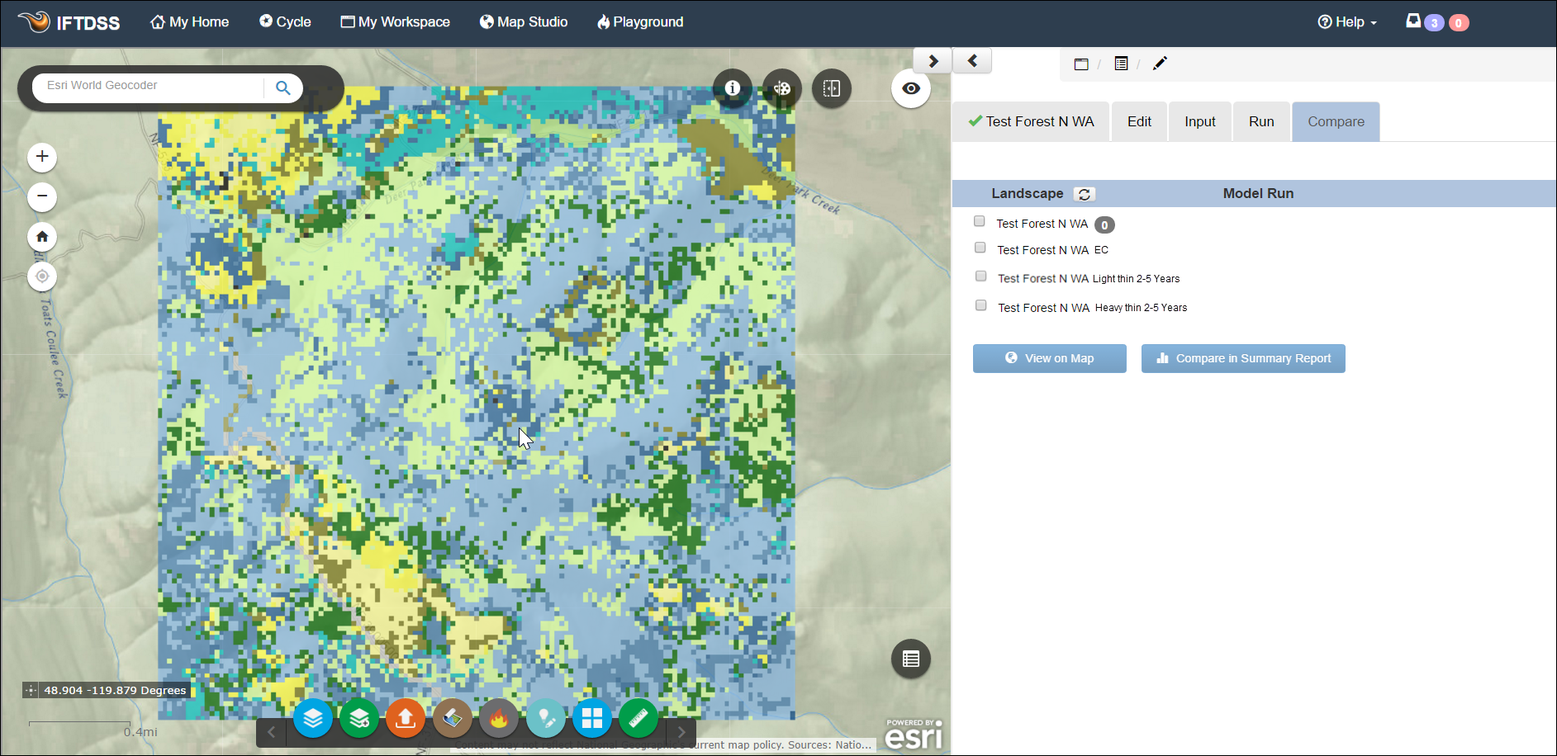
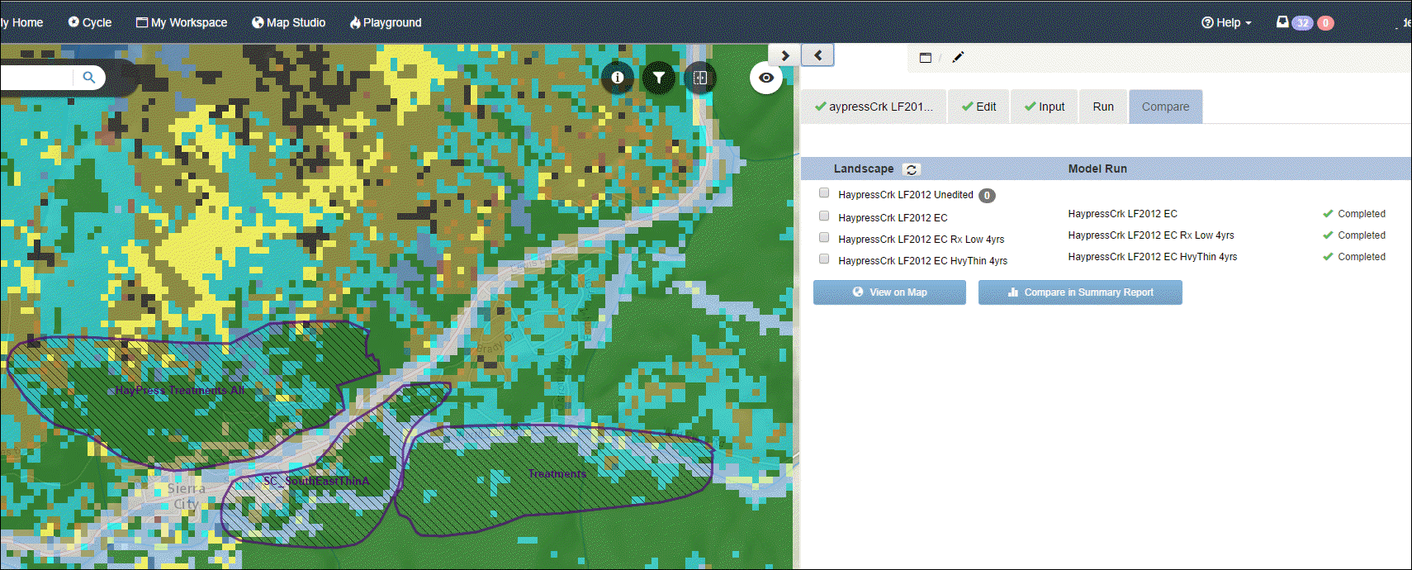
adds content

diff --git a/Content/PCStrategicPlanning/TrtmtAltsCompareLndscp.htm b/Content/PCStrategicPlanning/TrtmtAltsCompareLndscp.htm
@@ -1,36 +1,29 @@
 <?xml version="1.0" encoding="utf-8"?>
-<html xmlns:MadCap="http://www.madcapsoftware.com/Schemas/MadCap.xsd" MadCap:lastBlockDepth="7" MadCap:lastHeight="7095" MadCap:lastWidth="1252">
+<html xmlns:MadCap="http://www.madcapsoftware.com/Schemas/MadCap.xsd" MadCap:lastBlockDepth="9" MadCap:lastHeight="6422" MadCap:lastWidth="2172">
     <head>
     </head>
     <body>
         <h1>
             <MadCap:keyword term="Comparing" />
             <MadCap:keyword term="Comparing Landscapes" />Comparing Landscapes to <MadCap:keyword term="Develop Treatment Alternative" />Develop <MadCap:keyword term="Treatment Alternatives" />Treatment Alternatives</h1>
-        <p>Develop alternatives to determine how different types of fuels treatments and their spatial arrangement on the landscape affect landscape characteristics and resultant fire behavior. You may generate maps and reports to compare landscapes and fire behavior model outputs, and use outcomes to determine the best fuels management strategy to meet your project objectives. In this task you will:</p>
-        <ol>
-            <li>Select or create an un-edited (originating) landscape</li>
-            <li>Edit landscape characteristics to create alternative(s)</li>
-            <li>Enter fire behavior model inputs</li>
-            <li>Run fire behavior models on alternative(s)</li>
-            <li>Compare landscape characteristic alternatives and resultant fire behavior outputs on maps and in reports</li>
-        </ol>
+        <MadCap:snippetBlock src="../Resources/Snippets/CompareTreatmentAlts/Introduction.flsnp" />
         <div class="notificationNote">
             <p>All edited landscapes, resultant model run outputs, and comparison reports created in this workflow will be filed in your workspace in the same location as landscape you choose in the following step as your originating landscape.</p>
         </div>
+        <p>To view both your landscape, and editing rules at the same time, use the <span class="UIcomponent">View Split Map</span> button <img src="../Resources/Images/treatment_compare/button_showsplitmap.png" style="width: 41px;height: 24px;" alt="view split map button" />at the top left of the page. </p>
+        <p>
+            <img src="../Resources/Images/treatment_compare/ViewSplitMapLocation.png" alt="the view split map button is located in the top left of the page" style="width: 799px;height: 252px;" />
+        </p>
         <div class="notificationTip">
-            <p>To view both your landscape, and editing rules at the same time, use the <span class="UIcomponent">View Split Map</span> button <img src="../Resources/Images/treatment_compare/button_showsplitmap.png" style="width: 41px;height: 24px;" alt="view split map button" />at the top of the page. </p>
+            <p>Throughout these steps we refer to different landscape (Originating, Existing, etc.). If you need a quick reference to remember what each of these refers to, see the <a href="../Concepts/AboutLandscapesinIFTDSS.htm">LAbout Landscapes in <MadCap:variable name="General.ProductName" /> Topic</a>.</p>
         </div>
         <MadCap:dropDown>
             <MadCap:dropDownHead>
                 <MadCap:dropDownHotspot>Choose an Originating Landscape</MadCap:dropDownHotspot>
             </MadCap:dropDownHead>
             <MadCap:dropDownBody>
-                <p>
-                    <img src="../Resources/Images/treatment_compare/select_landscape.png" style="width: 541px;height: 265px;float: right;padding-left: 5px;padding-right: 5px;" alt="treatment comparison interface with a dropdown list of landscapes to select, or button to create a new landscape" />Use this tab to create or select a starting unedited landscape. The landscape selected in this step initiates your comparison session and will be marked with “0” throughout the workflow.  The “0” indicates the original landscape extracted from LANDFIRE that has not been edited. It will be available for you to edit in the <span class="UIcomponent">Edit Landscape</span>tab. If landscape “0” does not represent your Existing Condition (EC) you can edit it to create your existing condition in the Edit Landscape tab.</p>
-                <div class="notificationImportant">
-                    <p>The landscape you use to develop and compare treatment alternatives should mimic, as closely as possible, conditions as they exist on the ground, the Existing Condition (EC). When you select your landscape "0", any landscapes that match that extent will become available in the subsequent steps of the Landscape Comparison process. Thus, if you had edited a landscape previously to match the existing condition, choose the original un-edited file, and the edited version will be available in the next steps of Landscape Comparison.</p>
-                </div>
-                <p>If your landscape “0” does represent your EC, you can begin editing to create your treatment alternatives.</p>
+                <MadCap:snippetBlock src="../Resources/Snippets/CompareTreatmentAlts/OriginatingLandscape_part1.flsnp" />
+                <MadCap:snippetBlock src="../Resources/Snippets/CompareTreatmentAlts/OriginatingLandscape_part2.flsnp" />
                 <p>To complete this step either:</p>
                 <p>Use the <span class="UIcomponent">Select Landscape</span> drop-down menu to select an existing un-edited landscape from your workspace or, </p>
                 <p>Use the <span class="UIcomponent">Create on Map</span> option to draw a new landscape extent and extract a new Landfire landscape</p>
@@ -41,36 +34,16 @@
                 <MadCap:dropDownHotspot>Edit Your Landscape</MadCap:dropDownHotspot>
             </MadCap:dropDownHead>
             <MadCap:dropDownBody>
-                <p>
-                    <img src="../Resources/Images/treatment_compare/edit.png" alt="The edit landscape interface with default treatment rule options that can be selected upon clicking, or landscape edit rules that can be created by the user." style="width: 660px;height: 324px;float: right;padding-left: 5px;padding-right: 5px;" />Here you will edit landscapes to develop your Existing Condition (EC) if needed, and your treatment alternatives. The only landscape(s) available at this point will be unedited LANDFIRE landscapes (these will be referred to as the “0” landscape) and any landscapes matching that extent. Create your treatment alternatives by altering your EC landscape, whether that’s the "0" landscape, an existing landscape that has been made available in this step, or one that you create in this editing step from landscape "0". </p>
+                <MadCap:snippetBlock src="../Resources/Snippets/CompareTreatmentAlts/Edit_part1.flsnp" />
                 <div class="notificationImportant">
-                    <p>It is very important to have a landscape that represents EC to ensure more accurate comparison results in gauging how each alternative does or does not meet objectives. The EC may need to reflect new disturbances on your landscape, like recent wildfires, fuels treatments, or windfalls. </p>
+                    <p>It is important that the landscape you use to develop and compare treatment alternatives mimics, as closely as possible, conditions as they exist on the ground. This ensures more accurate comparison results in gauging how each alternative does or does not meet objectives. The EC may need to reflect new disturbances on your landscape, like recent wildfires, fuels treatments, or windfalls. </p>
                 </div>
-                <p>Once you have established your EC, you can use that landscape as your originating landscape and create as many treatment alternatives as necessary to make your comparisons.  Steps include:  
-				</p>
-                <ol>
-                    <li>Select a originating landscape in the <span class="UIcomponent">Originating Landscape</span> drop down box
-					</li>
-                    <li>Use <span class="UIcomponent">Default Fuels Treatment/Disturbance Rules</span> or <span class="UIcomponent">Landscape Edit Rules</span> and <span class="UIcomponent">Landscape Masks</span> (optional) to edit your landscape
-					</li>
-                    <li>Give your edited landscape a unique name in the <span class="UIcomponent">Edited Landscape</span> box at the bottom of the page.
-					</li>
-                    <li>Click <span class="UIcomponent">Save New Landscape
-					</span></li>
-                    <li>Use the refresh button in the <span class="UIcomponent">Originating Landscape</span> drop down to check to see if your new landscape is available to view
-					</li>
-                    <li>Once your edited landscape has been created, you can choose it in the <span class="UIcomponent">Originating Landscape</span> drop down to view for accuracy and/or to edit and create a new landscape to compare.
-Use the <span class="UIcomponent">View Split Map</span> button <img src="../Resources/Images/treatment_compare/button_showsplitmap.png" style="width: 41px;height: 24px;" alt="view split map button" /> to view the map output with your edits, if you have not used this setting already.<![CDATA[
-					]]></li>
-                </ol>
+                <div class="notificationNote">
+                    <p>If you had not created an Existing Landscape yet, that could also be done here, and then edited to represent treatments.</p>
+                </div>
+                <MadCap:snippetBlock src="../Resources/Snippets/EditLandscapeRules/AddLandscapeEditRule.flsnp" />
                 <p>Continue  this process to create as many landscapes as needed to compare.  When you are finished editing and creating new landscapes, continue on to the Model Input tab to establish conditions under which the landscapes you just created will be modeled.
 				</p>
-                <div class="notificationImportant">
-                    <p>The order of your landscape rules is very important! Details on performing landscape edits are available in the&#160;<a href="../PCLandscapeEval/LandscapeEditAbout.htm">Landscape Editing Topic</a>.</p>
-                </div>
-                <div class="notificationImportant">
-                    <p>It is important that the landscape you use to develop and compare treatment alternatives mimics, as closely as possible, conditions as they exist on the ground.</p>
-                </div>
             </MadCap:dropDownBody>
         </MadCap:dropDown>
         <MadCap:dropDown>
@@ -82,7 +55,7 @@ Use the <span class="UIcomponent">View Split Map</span> button <img src="../Reso
                     <img src="../Resources/Images/treatment_compare/inputs.png" alt="interface with modeling input fields on the right of a map." style="width: 634px;height: 311px;float: right;padding-left: 5px;" />Use this tab to establish the model state by which all landscapes in your comparison session  will be run and compared.  If you are unsure as to what your model state should be for your comparison session, utilize <span class="UIcomponent">My Modeling Playground</span> to test different weather and fuel moisture conditions on your landscape(s).  Creating an <a href="../PCLandscapeEval/Auto97Summary.htm">Auto97th Landscape Fire Behavior report</a> in the <span class="UIcomponent">Landscape Summary</span> task of the <span class="UIcomponent">Landscape Evaluation </span>stage of the planning cycle. can also help give you a starting point for establishing model inputs.
 				</p>
                 <div class="notificationImportant">
-                    <p>Once a model is run in Landscape Comparison, it is permanent, there is no way to re-run that model. For this reason, testing out various modeling inputs in <span class="UIcomponent">MyModeling Playground</span> before proceeding with the rest of <span class="UIcomponent">Landscape Comparison </span>is recommended.</p>
+                    <p>Once a model is run in Landscape Comparison, it is permanent, there is no way to re-run that model. For this reason, testing out various modeling inputs in <span class="UIcomponent">My Modeling Playground</span> before proceeding with the rest of <span class="UIcomponent">Landscape Comparison </span>is recommended.</p>
                 </div>
                 <p>To complete this step:
 				</p>
@@ -127,8 +100,6 @@ Use the <span class="UIcomponent">View Split Map</span> button <img src="../Reso
                 <ol>
                     <li>Click the <span class="UIcomponent">Refresh</span> button next to <span class="UIcomponent">Landscape</span> in the <span class="UIcomponent">Run Models</span> table to be sure all of your landscapes are listed
 					</li>
-                    <li>(Optional) Rename model runs for each landscape</li>
-                    <li>(Optional)Revisit Model Input tab to be sure <MadCap:popup><MadCap:popupHead>your inputs are as you would like them</MadCap:popupHead><MadCap:popupBody>Once you have run a model in the Run Model tab, the inputs are locked in for this landscape in the Treatment Comparison workflow.  Meaning you will not be able to select landscape “0” and rerun it or any of its derived landscapes with alternative inputs in the Develop Treatment Alternatives workflow.  This is to ensure model outputs that are being compared are commensurate.   We are working on a Modify Inputs option to alleviate this inconvenience. </MadCap:popupBody></MadCap:popup></li>
                     <li>Click <span class="UIcomponent">Run Model</span> for landscapes you would like to compare
 					</li>
                     <li>Click the <span class="UIcomponent">Refresh</span> button next to <span class="UIcomponent">Run Status</span> in the <span class="UIcomponent">Run Models</span> table to check the status of your model outputs
@@ -141,44 +112,16 @@ Use the <span class="UIcomponent">View Split Map</span> button <img src="../Reso
                 <MadCap:dropDownHotspot>Compare Alternatives</MadCap:dropDownHotspot>
             </MadCap:dropDownHead>
             <MadCap:dropDownBody>
-                <p>
-                    <img src="../Resources/Images/treatment_compare/compare.png" alt="select landscapes from the list to the right of the map to compare them" style="width: 699px;height: 338px;float: right;padding-left: 5px;padding-right: 5px;" />The <span class="UIcomponent">Compare Alternatives</span> tab lists Landscape "0" and all the landscapes match that landscape extent, and all the landscapes that have been created by editing (landscape alternatives, an Existing Condition landscape, etc.). Model runs created and completed in the <span class="UIcomponent">Run Model </span>tab will also be listed here.</p>
-                <ul>
-                    <li>Use the <span class="UIcomponent">Refresh</span> button next to Landscape in the table to ensure all landscapes and respective model runs are listed</li>
-                    <li>
-					Click on individual landscape or model run names to open the split screen map and view. </li>
-                    <li>You can use the checkboxes next to a row to select and then View on Map to view that particular landscape and its outputs
-
-					</li>
-                </ul>
-                <p>To Evaluate Comparisons:
-				</p>
-                <ul>
-                    <li>Select the checkbox for two landscapes and model runs you would like to compare
-					</li>
-                    <li>The first box you check will be tagged with “1” and should represent your “treated” landscape.
-					</li>
-                    <li>The second box you check will be tagged with “2” and should represent landscape/model run you want the first landscape/model run to be compared against, or EC.
-
-					</li>
-                </ul>
+                <MadCap:snippetBlock src="../Resources/Snippets/CompareTreatmentAlts/Comparison_Part1.flsnp" />
                 <div class="notificationNote">
                     <p>Example:  My objective is to reduce flame length on my treated landscape.  So, I need to show change due to treatment.  I need my output grid to show that flame length was reduced by treatment.  So, AltA(FL 2)-EC(FL 10)= FL -8.  I reduced my FL by 8.  Grid will show -8 meaning an 8 foot reduction.</p>
                 </div>
-                <p>Once you have checked 2 boxes you can:
-				</p>
-                <ul>
-                    <li>View on Map where, if it is not already open, will open the split screen and will display the difference grid for the landscapes you choose.  The layers list should also be open and will list the two landscapes, two model outputs, and two difference grids (landscape diff and model output diff) to view.
-					</li>
-                    <li>Compare in <span class="UIcomponent">Summary Report</span> where a pop up box will come up for you to select <span class="UIcomponent">Create Report</span> for either or both of Landscape Compare or Fire Behavior Compare.  Use the refresh button to check status.  Once the report has been created you can click on the blue hyper link opening a new tab where you can view, download or print your report.
-</li>
-                </ul>
+                <MadCap:snippetBlock src="../Resources/Snippets/CompareTreatmentAlts/Comparison_Part2.flsnp" />
                 <div class="notificationTip">
                     <p><a href="../MapStudio/Functions/Swipe.htm">You may find the Swipe tool helpful in comparisons	</a>
                     </p>
                 </div>
             </MadCap:dropDownBody>
         </MadCap:dropDown>
-        <p>&#160;</p>
     </body>
 </html>

diff --git a/Content/Tutorials/TutorialComparison.htm b/Content/Tutorials/TutorialComparison.htm
@@ -1,5 +1,5 @@
 <?xml version="1.0" encoding="utf-8"?>
-<html xmlns:MadCap="http://www.madcapsoftware.com/Schemas/MadCap.xsd" MadCap:conditions="General.LaterRelease" MadCap:lastBlockDepth="7" MadCap:lastHeight="15361" MadCap:lastWidth="1531">
+<html xmlns:MadCap="http://www.madcapsoftware.com/Schemas/MadCap.xsd" MadCap:lastBlockDepth="7" MadCap:lastHeight="19521" MadCap:lastWidth="2212" MadCap:conditions="General.LaterRelease">
     <head>
     </head>
     <body>
@@ -63,14 +63,14 @@
         <MadCap:snippetBlock src="../Resources/Snippets/LandscapeSummary/GenerateLandscapeSummary.flsnp" />
         <p>Once your summary is created, navigate to <span class="UIcomponent">My Workspace</span>, and view the fire behavior outputs in <MadCap:variable name="General.MapStudio" /> by selecting the 'Haypress LF2012 EC - Auto97th model output file. Use the <span class="UIcomponent">Layer List</span> and <span class="UIcomponent">Zoom</span> to evaluate fire behavior across your landscape. For this example we'll focus on the Sierra City wildand urban interface in the northeast area of the map.</p>
         <p>
-            <img src="../Resources/Images/landscapesumm/SierraCity.png" alt="mapped landscape with Sierra City highlighted for a closer look" style="width: 694px;height: 624px;" />
+            <img src="../Resources/Images/tutorial_1_comparison/SierraCity.png" alt="mapped landscape with Sierra City highlighted for a closer look" style="width: 694px;height: 624px;" />
         </p>
         <div class="notificationTip">
             <p>As you evaluate your landscape you may find it helpful to adjust the layer transparency using the <span class="UIcomponent">more options</span> button <img src="../Resources/Images/landscapesumm/button_moreoptions.png" alt="moreoptionsbutton" /> to the right of your fire behavior layer, and the different <span class="UIcomponent">basemap gallery</span> <img src="../Resources/Images/mapstudio/button_basemapglry.png" alt="basemap gallery button" />options.</p>
         </div>
         <p>Toggling through the fire behavior attributes of flame length, and canopy fire, we can see some areas north of town, and east between the North Yuba River and some scattered structures that could make good candidates for treatment. In this example you'll notice the circled areas indicate potentially high flame lengths, rates of spread, active crown fire, and a max spread direction moving north to northeast.</p>
         <p>
-            <img src="../Resources/Images/landscapesumm/SierraCity2.png" alt="possible treatment areas as described in text" style="width: 1184px;height: 590px;" />
+            <img src="../Resources/Images/tutorial_1_comparison/SierraCity2.png" alt="possible treatment areas as described in text" style="width: 1184px;height: 590px;" />
         </p>
         <p>You may also use the <span class="UIcomponent">Landscape Tools</span> <img src="../Resources/Images/mapstudio/button_landscapetools.png" alt="landscape tools button" /> button to add the landscape file to <MadCap:variable name="General.MapStudio" />, and the <span href="../MapStudio/Functions/Swipe.htm" target="_blank" class="UIcomponent"><a href="../MapStudio/Functions/Swipe.htm" target="_blank">Swipe</a></span> tool <img src="../Resources/Images/mapstudio/button_slider.png" alt="swipe tool button" /> to view the different layers.</p>
         <p>In the next steps, we'll create shapefiles for these areas, then use those shapefiles to specify which part of the landscape to simulate our treatment alternatives for comparison. </p>
@@ -79,11 +79,11 @@
         <p>First, we'll create three individual shape files:</p>
         <p> Open <span class="UIcomponent">Create/Edit Shapes</span><img src="../Resources/Images/mapstudio/button_editTools.png" alt="create edit shapes button" /> , select your method, in this case the freehand draw method, and draw your polygon. </p>
         <p>
-            <img src="../Resources/Images/landscapesumm/tut1_createshapefile.png" alt="using the freehand draw tool to draw a polygon on the landscape" style="width: 946px;height: 386px;" />
+            <img src="../Resources/Images/tutorial_1_comparison/tut1_createshapefile.png" alt="using the freehand draw tool to draw a polygon on the landscape" style="width: 946px;height: 386px;" />
         </p>
         <p>You can use the delete button to get rid of the polygon before saving, or edit it by single left clicking and moving the vertices. When you are satisfied with your first polygon, give it a name, select a project folder and click <span class="UIcomponent">Create</span>. Once created, polygons will appear on the map in purple. Continue this for the three treatment areas as shown below.</p>
         <p>
-            <img src="../Resources/Images/landscapesumm/tut1_polygoncloseup.png" alt="a zoomed view of the three treatment pologygons to the north and east of the wui" style="width: 876px;height: 418px;" />
+            <img src="../Resources/Images/tutorial_1_comparison/tut1_polygoncloseup.png" alt="a zoomed view of the three treatment pologygons to the north and east of the wui" style="width: 876px;height: 418px;" />
         </p>
         <div class="notificationNote">
             <p>Note that your polygons do not be an exact match with ones pictured above.</p>
@@ -92,16 +92,98 @@
         <p>Repeat this step for two additional treatment areas, similar to those in the image above. </p>
         <p>To combine these into one file, select the <span class="UIcomponent">Copy from Existing Features</span> button <img src="../Resources/Images/mapstudio/button_copy_exstng_ftrs.png" style="width: 29px;height: 29px;" alt="Copy from Existing Features button" />, make sure the <span class="UIcomponent">Select multipart</span> option under the button is selected, and left mouse click your first polygon. It will appear highlighted once selected. Continue this process, each time selecting the <span class="UIcomponent">Copy from Existing Features</span> button <img src="../Resources/Images/mapstudio/button_copy_exstng_ftrs.png" style="width: 29px;height: 29px;" alt="Copy from Existing Features button" />, and highlighting the next polygon, until all are selected. When finished, give the set a name, specify a folder to save it in (in this case our Haypress Crk Project folder), and select <span class="UIcomponent">Create</span>.</p>
         <p>
-            <img src="../Resources/Images/landscapesumm/tut1_combineshapefile.png" alt="use Edit/Create Tools options to save multiple polygons in one file" />
+            <img src="../Resources/Images/tutorial_1_comparison/tut1_combineshapefile.png" alt="use Edit/Create Tools options to save multiple polygons in one file" />
         </p>
         <p>Once the new shapefile has been successfully created, you will see 'Shape Created' Appear in  <span class="UIcomponent">Create/Edit Shapes</span>.</p>
         <p>
-            <img src="../Resources/Images/landscapesumm/tut1_shapeconfirmation.png" alt="Once saved, you will see 'shape created' displayed in the Create/Edit Shapes box" />
+            <img src="../Resources/Images/tutorial_1_comparison/tut1_shapeconfirmation.png" alt="Once saved, you will see 'shape created' displayed in the Create/Edit Shapes box" />
         </p>
         <p>Shapes are available in <span class="UIcomponent">My Workspace </span>in the folder you selected (in this case the Haypress Creek Project folder).</p>
         <p>
-            <img src="../Resources/Images/landscapesumm/tut1_shapesinworkspace.png" alt="a list of shapefiles in My Workspace that we created in the course of this tutorial" />
+            <img src="../Resources/Images/tutorial_1_comparison/tut1_shapesinworkspace.png" alt="a list of shapefiles in My Workspace that we created in the course of this tutorial" />
         </p>
         <h2>Simulate a fuels treatments and compare their predicted effect on fire behavior using the Develop Treatment Alternatives task in the Strategic Planning stage of the planning cycle</h2>
+        <p>Now that we have some priority treatment areas, we'll evaluate the potential effect of the treatments on fire behavior, using the Strategic Planning stage of the cycle, and the Develop Treatment Alternatives task.</p>
+        <p>
+            <img src="../Resources/Images/Cycle/StrategicPlanningCompare.png" alt="treatment alternative comparison task of the strategic planning phase of the cycle" style="width: 780px;height: 191px;" />
+        </p>
+        <p>We'll progress through each of these steps as you complete this final part of the tutorial</p>
+        <MadCap:snippetBlock src="../Resources/Snippets/CompareTreatmentAlts/Introduction.flsnp" />
+        <h3>Pick a landscape</h3>
+        <MadCap:snippetBlock src="../Resources/Snippets/CompareTreatmentAlts/OriginatingLandscape_part1.flsnp" />
+        <p>For this tutorial, you may select the unedited Haypress LF2012 file we created at the start. Our Existing landscape version of that file will become available during subsequent steps. As we proceed to the edit step, we'll focus solely on creating treatment alternatives; However, if we had not created any files in <MadCap:variable name="General.ProductName" />, we could have started here at this <span class="UIcomponent">Pick a landscape</span> step, and use the next step (edit) to both create our existing landscape (Haypress LF2012 EC), and create treatment alternatives from that existing landscape.</p>
+        <h3>Edit the landscape</h3>
+        <MadCap:snippetBlock src="../Resources/Snippets/CompareTreatmentAlts/Edit_part1.flsnp" />
+        <p>&#160;</p>
+        <p>For this example we'll use the Default Treatment/Disturbance option to create two treatment alternatives.</p>
+        <ul>
+            <li>One will simulate the treatment area 2-5 years after a low severity prescribed fire in which less than 25% of the above ground vegetation is killed.</li>
+            <li>A second will simulate the treatment area 2-5 years after a heavy thin and pile burn (where the stand is thinned to 35% of its current density by removing material with no upper diameter limit, and the material is burned in piles)</li>
+        </ul>
+        <p>To learn more about the Default rules, visit the <a href="../PCLandscapeEval/TreatmentRuleBackground.htm" target="_blank">Treatment Rule Background Topic</a>.</p>
+        <p>For the first treatment alternative we'll look at low severity prescribed fire:</p>
+        <p>
+            <img src="../Resources/Images/tutorial_1_comparison/tutorial_default_rule.png" alt="The default editing buttons in the editing interface. Make selections based on the text" />
+        </p>
+        <ol style="list-style-type: upper-alpha;">
+            <li>Select HaypressCrk LF2012 EC as our starting landscape. </li>
+            <li>Use the <span class="UIcomponent">Add Default Fuels Treatment / Disturbance Edit Rule</span> dropdown</li>
+            <li> Select a Treatment Type of 'Wildland Fire'</li>
+            <li>Make sure 'low severity' is selected</li>
+            <li>For Time Since Treatment, select '2-5 years'. </li>
+            <li>We'll apply this to the treatment polygons we created earlier, so under Apply Landscape Mask, select 'Haypress Treatments All'</li>
+            <li>Select <span class="UIcomponent">Add to Rules</span></li>
+        </ol>
+        <p>Select a name for the new landscape:&#160;'HaypressCrk LF2012 EC Rx Low 4yrs' and select <span class="UIcomponent">Save new Landscape</span></p>
+        <p>Next, while still in the edit step, repeat this process, again starting with HaypressCrk LF2012 EC. This time select the 'Thin: Slash Removed', 'Heavy Thinning:&#160;Pile&#160;Burning' and '2-5 years' since disturbance. Add the rule and name the landscape 'HaypressCrk LF2012 EC HvyThin 4yrs'.</p>
+        <p>Next we'll select model inputs to run fire behavior with these treatments</p>
+        <h3>Enter model inputs</h3>
+        <p>Next we'll select conditions to run fire behavior for all our landscapes (existing condition and treatment alternatives).</p>
+        <p>You may use any inputs, but for this example we'll use the conditions that were used in the Auto97th summary that we generated in the very beginning of this tutorial, when we created our landscape. To get these, navigate to <span class="UIcomponent">My Modeling Playground</span>. Don't worry, you can navigate back to the comparison steps and not lose the information you've input. Select 'HaypressCrk LF2012 EC - Auto97th', and <span class="UIcomponent">View Input</span> from the dropdown. This will take you to a page displaying wind, crown fire inputs, and initial fuel moistures used to model the behavior during the aut097th summary. When you have these values, navigate back to the comparison task and select Haypress as your landscape again. If you wait a couple seconds you will see green checkmarks appear as <MadCap:variable name="General.ProductName" /> retrieves the data. (You can double check this by clicking the <span class="UIcomponent">Run Model</span> tab, which will list all the available landscapes, this should include the two edited treatment alternatives we created).</p>
+        <p>
+            <img src="../Resources/Images/tutorial_1_comparison/tutorial_modelinputs.png" alt="model inputs as described in text" style="width: 586px;height: 499px;" />
+        </p>
+        <ul>
+            <li>Select the and look at what landscapes are available to run). Input the following values, and select <span class="UIcomponent">Save Inputs</span>.<br />Wind speed: 20 mph</li>
+            <li>Wind Direction:&#160;225 degrees</li>
+            <li>Crown Fire Method: Scott/Reinhardt</li>
+            <li>Fuel Moisture Content: 100</li>
+            <li>Initial Fuel Moistures of</li>
+            <li>1 hr 3</li>
+            <li>10 hr 4</li>
+            <li>100 hr 5</li>
+            <li>Herb 119</li>
+            <li>Woody 99</li>
+        </ul>
+        <p>When you save your inputs a verification will appear at the top of the screen to confirm your inputs have been saved</p>
+        <p>
+            <img src="../Resources/Images/treatment_compare/model_input_verification.png" alt="green verification box indicating model inputs have been saved" />
+        </p>
+        <h3>Run the model for some or all of the edited landscapes</h3>
+        <p>Now that we have our inputs, we can run the fire behavior model. For this example we'll run models for:</p>
+        <ul>
+            <li>HaypressCrk LF2012 EC - Our existing condition landscape</li>
+            <li>HaypressCrk LF2012 EC Rx Low 4yrs - Our prescribed burn treatment alternative</li>
+            <li>HaypressCrk LF2012 EC HvyThin 4yrs - Our heavy thin treatment alternative</li>
+        </ul>
+        <p>
+            <img src="../Resources/Images/treatment_compare/comparison_model_list.png" alt="a list of available landscapes for which the fire behavior model may be run" style="width: 809px;height: 274px;" />
+        </p>
+        <p>Select <span class="UIcomponent">Run Model </span>next to the three landscaped indicated above</p>
+        <h3>
+            <img src="../Resources/Images/treatment_compare/comparison_model_list_verify.png" alt="A green box at the top of the page, and hourglass next to each landscape, indicates the model for each one is running" />
+        </h3>
+        <p>A green verification box, and hourglass next to each landscape will let you know the model is running</p>
+        <div class="notificationTip">
+            <p>It may take a few minutes for the models to run depending on the number of landscapes modeled and their size. You may use the refresh button to the right of <span class="UIcomponent">Run Status</span> to check their progress.</p>
+        </div>
+        <p>Once the model has completed, you will see a green check mark, and the word 'completed' next to each landscape.</p>
+        <p>
+            <img src="../Resources/Images/treatment_compare/comparison_model_list_fin.png" alt="green check marks and the word 'completed' next to each landscape indicates the model has finished running for that landscape" />
+        </p>
+        <h3>Compare model outputs for your treatment alternatives</h3>
+        <p>In the Compare Alternatives tab</p>
+        <MadCap:snippetBlock src="../Resources/Snippets/CompareTreatmentAlts/Comparison_Part1.flsnp" />
+        <p>To begin, we will select our low severity prescribed fire treatment, which will be tagged with a "1", then our existing landscape, which will be tagged with a "2".The comparison display the difference in landscape features and fire behavior between the two landscapes. When finished, "select view in map"</p>
     </body>
 </html>

diff --git a/Content/PCStrategicPlanning/TrtmtAltsEditLandscp.htm b/Content/PCStrategicPlanning/TrtmtAltsEditLandscp.htm
@@ -1,5 +1,5 @@
 <?xml version="1.0" encoding="utf-8"?>
-<html xmlns:MadCap="http://www.madcapsoftware.com/Schemas/MadCap.xsd" MadCap:lastBlockDepth="7" MadCap:lastHeight="3983" MadCap:lastWidth="1252">
+<html xmlns:MadCap="http://www.madcapsoftware.com/Schemas/MadCap.xsd" MadCap:lastBlockDepth="9" MadCap:lastHeight="4185" MadCap:lastWidth="2172">
     <head>
     </head>
     <body>
@@ -31,9 +31,7 @@
                 <MadCap:dropDownHotspot>Add Landscape Edit Rule</MadCap:dropDownHotspot>
             </MadCap:dropDownHead>
             <MadCap:dropDownBody>
-                <p>
-                    <MadCap:snippetText src="../Resources/Snippets/EditLandscapeRules/AddLandscapeEditRule.flsnp" />
-                </p>
+                <MadCap:snippetBlock src="../Resources/Snippets/EditLandscapeRules/AddLandscapeEditRule.flsnp" />
             </MadCap:dropDownBody>
         </MadCap:dropDown>
         <MadCap:dropDown>

diff --git a/Content/GetStarted/OnlineCourses.htm b/Content/GetStarted/OnlineCourses.htm
@@ -1,5 +1,5 @@
 <?xml version="1.0" encoding="utf-8"?>
-<html xmlns:MadCap="http://www.madcapsoftware.com/Schemas/MadCap.xsd" MadCap:lastBlockDepth="2" MadCap:lastHeight="781" MadCap:lastWidth="1321" MadCap:fileTags="Source.UIdaho">
+<html xmlns:MadCap="http://www.madcapsoftware.com/Schemas/MadCap.xsd" MadCap:lastBlockDepth="2" MadCap:lastHeight="781" MadCap:lastWidth="1321" MadCap:fileTags="Source.UIdaho" MadCap:conditions="General.LaterRelease">
     <head>
     </head>
     <body>

diff --git a/Content/GetStarted/FileNaming.htm b/Content/GetStarted/FileNaming.htm
@@ -1,5 +1,5 @@
 <?xml version="1.0" encoding="utf-8"?>
-<html xmlns:MadCap="http://www.madcapsoftware.com/Schemas/MadCap.xsd" MadCap:lastBlockDepth="2" MadCap:lastHeight="183" MadCap:lastWidth="767">
+<html xmlns:MadCap="http://www.madcapsoftware.com/Schemas/MadCap.xsd" MadCap:lastBlockDepth="2" MadCap:lastHeight="183" MadCap:lastWidth="767" MadCap:conditions="General.LaterRelease">
     <head>
     </head>
     <body>
